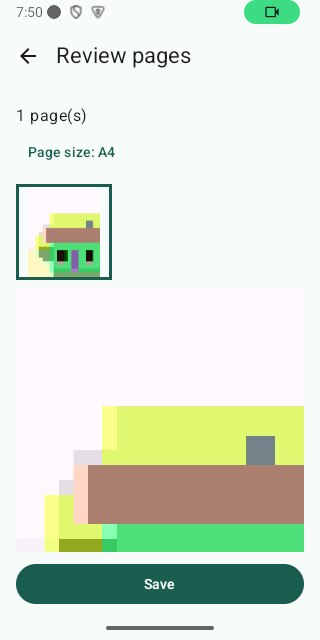
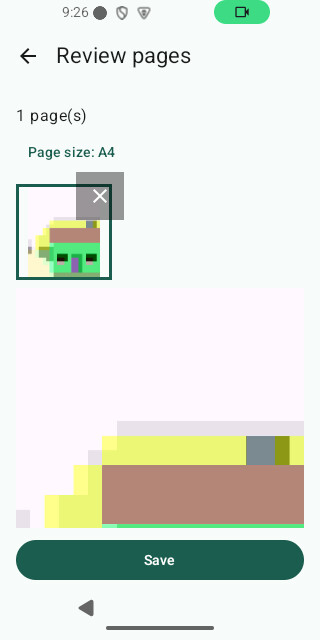
feat(android): add per-page remove action to Page Review (#100)
specs/ui-flows.md#3-page-review and docs/user-manual.md already
documented a per-page remove action alongside reorder, but only reorder
was ever implemented. Adds the same "Remove page" close-button overlay
Capture's own thumbnail strip already uses, wired to a new remove()
that keeps filters/corners/rotations index-aligned with pageOrder, the
same way reorder() already does.

Closes #93

diff --git a/android/app/src/main/java/com/github/tomasbjerre/keepsheet/ui/PageReviewScreen.kt b/android/app/src/main/java/com/github/tomasbjerre/keepsheet/ui/PageReviewScreen.kt
@@ -4,6 +4,7 @@ import android.content.ContentResolver
 import android.graphics.Bitmap
 import android.net.Uri
 import androidx.compose.foundation.Image
+import androidx.compose.foundation.background
 import androidx.compose.foundation.border
 import androidx.compose.foundation.clickable
 import androidx.compose.foundation.gestures.detectDragGesturesAfterLongPress
@@ -24,6 +25,7 @@ import androidx.compose.foundation.rememberScrollState
 import androidx.compose.foundation.verticalScroll
 import androidx.compose.material.icons.Icons
 import androidx.compose.material.icons.automirrored.filled.ArrowBack
+import androidx.compose.material.icons.filled.Close
 import androidx.compose.material3.Button
 import androidx.compose.material3.CircularProgressIndicator
 import androidx.compose.material3.DropdownMenu
@@ -49,6 +51,7 @@ import androidx.compose.runtime.rememberCoroutineScope
 import androidx.compose.runtime.setValue
 import androidx.compose.ui.Alignment
 import androidx.compose.ui.Modifier
+import androidx.compose.ui.graphics.Color
 import androidx.compose.ui.graphics.ImageBitmap
 import androidx.compose.ui.graphics.asImageBitmap
 import androidx.compose.ui.graphics.graphicsLayer
@@ -89,7 +92,7 @@ import kotlin.math.roundToInt
  * ever reaches this screen).
  */
 @OptIn(ExperimentalMaterial3Api::class)
-@Suppress("LongMethod") // Compose screen: state hoisting keeps this one flat function readable.
+@Suppress("LongMethod", "CyclomaticComplexMethod") // Compose screen: hoisted state keeps this flat and readable.
 @Composable
 fun PageReviewScreen(
     pages: List<Uri>,
@@ -130,6 +133,17 @@ fun PageReviewScreen(
         filters = filters.moved(fromIndex, toIndex)
         corners = corners.moved(fromIndex, toIndex)
         rotations = rotations.moved(fromIndex, toIndex)
+    }
+
+    // See specs/ui-flows.md#3-page-review: a per-page remove action, same as reorder above
+    // keeps filters/corners/rotations index-aligned with pageOrder. Doesn't touch
+    // selectedUri — if the removed page was the selected one, `selected`'s own derivation
+    // (above) already falls back to index 0 once its uri is no longer in pageOrder.
+    fun remove(index: Int) {
+        pageOrder = pageOrder.toMutableList().also { it.removeAt(index) }
+        filters = filters.toMutableList().also { it.removeAt(index) }
+        corners = corners.toMutableList().also { it.removeAt(index) }
+        rotations = rotations.toMutableList().also { it.removeAt(index) }
     }
 
     Scaffold(
@@ -187,6 +201,7 @@ fun PageReviewScreen(
                 selected = selected,
                 onSelect = { index -> selectedUri = pageOrder[index] },
                 onReorder = ::reorder,
+                onRemove = ::remove,
             )
             if (pageOrder.isNotEmpty()) {
                 CropSection(
@@ -283,7 +298,8 @@ const val REVIEW_THUMBNAIL_TEST_TAG = "review-thumbnail"
 /**
  * See specs/ui-flows.md#3-page-review: reorder (drag), same interaction as Capture's own
  * thumbnail strip (long-press then drag, so a plain tap still selects a page for the crop/
- * filter controls below).
+ * filter controls below), and remove (same "Remove page" close-button overlay as Capture's
+ * own thumbnail strip, see CaptureScreen's CaptureThumbnail).
  */
 @Composable
 private fun PageThumbnails(
@@ -291,6 +307,7 @@ private fun PageThumbnails(
     selected: Int,
     onSelect: (Int) -> Unit,
     onReorder: (fromIndex: Int, toIndex: Int) -> Unit,
+    onRemove: (Int) -> Unit,
 ) {
     val density = LocalDensity.current
     val itemExtentPx = with(density) { (REVIEW_THUMBNAIL_SIZE + REVIEW_THUMBNAIL_SPACING).toPx() }
@@ -302,52 +319,97 @@ private fun PageThumbnails(
         horizontalArrangement = Arrangement.spacedBy(REVIEW_THUMBNAIL_SPACING),
     ) {
         itemsIndexed(pages, key = { _, uri -> uri }) { index, uri ->
-            val isDragging = uri == draggingUri
-            AsyncImage(
-                model = uri,
-                contentDescription = "Page ${index + 1}",
-                modifier =
-                    Modifier
-                        .size(REVIEW_THUMBNAIL_SIZE)
-                        .testTag(REVIEW_THUMBNAIL_TEST_TAG)
-                        .graphicsLayer { translationX = if (isDragging) dragOffsetPx else 0f }
-                        .zIndex(if (isDragging) 1f else 0f)
-                        .border(if (index == selected) 3.dp else 0.dp, MaterialTheme.colorScheme.primary)
-                        // Ahead of .clickable below so this drag detector sees (and, once a
-                        // drag actually starts, consumes) touch events first — otherwise
-                        // clickable's own gesture recognizer claims them and a long-press
-                        // drag never starts.
-                        .pointerInput(uri, pages) {
-                            detectDragGesturesAfterLongPress(
-                                onDragStart = {
-                                    draggingUri = uri
-                                    dragOffsetPx = 0f
-                                },
-                                onDragEnd = {
-                                    draggingUri = null
-                                    dragOffsetPx = 0f
-                                },
-                                onDragCancel = {
-                                    draggingUri = null
-                                    dragOffsetPx = 0f
-                                },
-                                onDrag = { change, dragAmount ->
-                                    change.consume()
-                                    val currentIndex = pages.indexOf(uri)
-                                    val result =
-                                        computeReviewDrag(
-                                            dragAmount.x,
-                                            dragOffsetPx,
-                                            currentIndex,
-                                            pages.size,
-                                            itemExtentPx,
-                                        )
-                                    dragOffsetPx = result.offsetPx
-                                    result.targetIndex?.let { onReorder(currentIndex, it) }
-                                },
-                            )
-                        }.clickable { onSelect(index) },
+            PageThumbnailItem(
+                index = index,
+                uri = uri,
+                pages = pages,
+                selected = selected,
+                drag =
+                    ThumbnailDrag(
+                        isDragging = uri == draggingUri,
+                        offsetPx = dragOffsetPx,
+                        itemExtentPx = itemExtentPx,
+                    ),
+                onDragStateChange = { dragging, offsetPx ->
+                    draggingUri = dragging
+                    dragOffsetPx = offsetPx
+                },
+                onSelect = onSelect,
+                onReorder = onReorder,
+                onRemove = onRemove,
             )
+        }
+    }
+}
+
+/** A thumbnail's drag-to-reorder state — grouped into one parameter so
+ * [PageThumbnailItem] doesn't need three separate ones for it. */
+private data class ThumbnailDrag(
+    val isDragging: Boolean,
+    val offsetPx: Float,
+    val itemExtentPx: Float,
+)
+
+/** One thumbnail in [PageThumbnails]: the image itself (selectable, drag-to-reorder) plus
+ * its "Remove page" overlay button (same look as Capture's own CaptureThumbnail). */
+@Composable
+private fun PageThumbnailItem(
+    index: Int,
+    uri: Uri,
+    pages: List<Uri>,
+    selected: Int,
+    drag: ThumbnailDrag,
+    onDragStateChange: (draggingUri: Uri?, offsetPx: Float) -> Unit,
+    onSelect: (Int) -> Unit,
+    onReorder: (fromIndex: Int, toIndex: Int) -> Unit,
+    onRemove: (Int) -> Unit,
+) {
+    Box(
+        modifier =
+            Modifier
+                .size(REVIEW_THUMBNAIL_SIZE)
+                .graphicsLayer { translationX = if (drag.isDragging) drag.offsetPx else 0f }
+                .zIndex(if (drag.isDragging) 1f else 0f),
+    ) {
+        AsyncImage(
+            model = uri,
+            contentDescription = "Page ${index + 1}",
+            modifier =
+                Modifier
+                    .fillMaxSize()
+                    .testTag(REVIEW_THUMBNAIL_TEST_TAG)
+                    .border(if (index == selected) 3.dp else 0.dp, MaterialTheme.colorScheme.primary)
+                    // Ahead of .clickable below so this drag detector sees (and, once a
+                    // drag actually starts, consumes) touch events first — otherwise
+                    // clickable's own gesture recognizer claims them and a long-press
+                    // drag never starts.
+                    .pointerInput(uri, pages) {
+                        detectDragGesturesAfterLongPress(
+                            onDragStart = { onDragStateChange(uri, 0f) },
+                            onDragEnd = { onDragStateChange(null, 0f) },
+                            onDragCancel = { onDragStateChange(null, 0f) },
+                            onDrag = { change, dragAmount ->
+                                change.consume()
+                                val currentIndex = pages.indexOf(uri)
+                                val result =
+                                    computeReviewDrag(
+                                        dragAmount.x,
+                                        drag.offsetPx,
+                                        currentIndex,
+                                        pages.size,
+                                        drag.itemExtentPx,
+                                    )
+                                onDragStateChange(uri, result.offsetPx)
+                                result.targetIndex?.let { onReorder(currentIndex, it) }
+                            },
+                        )
+                    }.clickable { onSelect(index) },
+        )
+        IconButton(
+            onClick = { onRemove(index) },
+            modifier = Modifier.align(Alignment.TopEnd).size(24.dp).background(Color.Black.copy(alpha = 0.4f)),
+        ) {
+            Icon(Icons.Default.Close, contentDescription = "Remove page", tint = Color.White)
         }
     }
 }

diff --git a/android/app/src/androidTest/java/com/github/tomasbjerre/keepsheet/PageReviewScreenTest.kt b/android/app/src/androidTest/java/com/github/tomasbjerre/keepsheet/PageReviewScreenTest.kt
@@ -7,10 +7,12 @@ import android.content.Intent
 import android.graphics.BitmapFactory
 import android.net.Uri
 import android.os.SystemClock
+import androidx.compose.ui.test.assertCountEquals
 import androidx.compose.ui.test.assertIsSelected
 import androidx.compose.ui.test.hasText
 import androidx.compose.ui.test.isEnabled
 import androidx.compose.ui.test.junit4.v2.createAndroidComposeRule
+import androidx.compose.ui.test.onAllNodesWithContentDescription
 import androidx.compose.ui.test.onAllNodesWithTag
 import androidx.compose.ui.test.onNodeWithContentDescription
 import androidx.compose.ui.test.onNodeWithTag
@@ -172,6 +174,22 @@ class PageReviewScreenTest {
                 .fetchSemanticsNodes()
                 .isNotEmpty()
         }
+    }
+
+    /** See specs/ui-flows.md#3-page-review (keepsheet#93): a per-page remove action, same
+     * as reorder above it. Removing the first of two pages must drop it from the thumbnail
+     * strip and the page count, leaving only the second. */
+    @Test
+    fun removingAPageDropsItFromTheReviewAndThePageCount() {
+        importTwoSamplePages()
+
+        composeRule.onAllNodesWithTag(REVIEW_THUMBNAIL_TEST_TAG).assertCountEquals(2)
+        composeRule.onNodeWithText("2 page(s)").assertExists()
+
+        composeRule.onAllNodesWithContentDescription("Remove page")[0].performScrollTo().performClick()
+
+        composeRule.onNodeWithText("1 page(s)").assertExists()
+        composeRule.onAllNodesWithTag(REVIEW_THUMBNAIL_TEST_TAG).assertCountEquals(1)
     }
 
     /** See specs/capture-and-processing.md#printer-friendly-pages (keepsheet#72): the page
